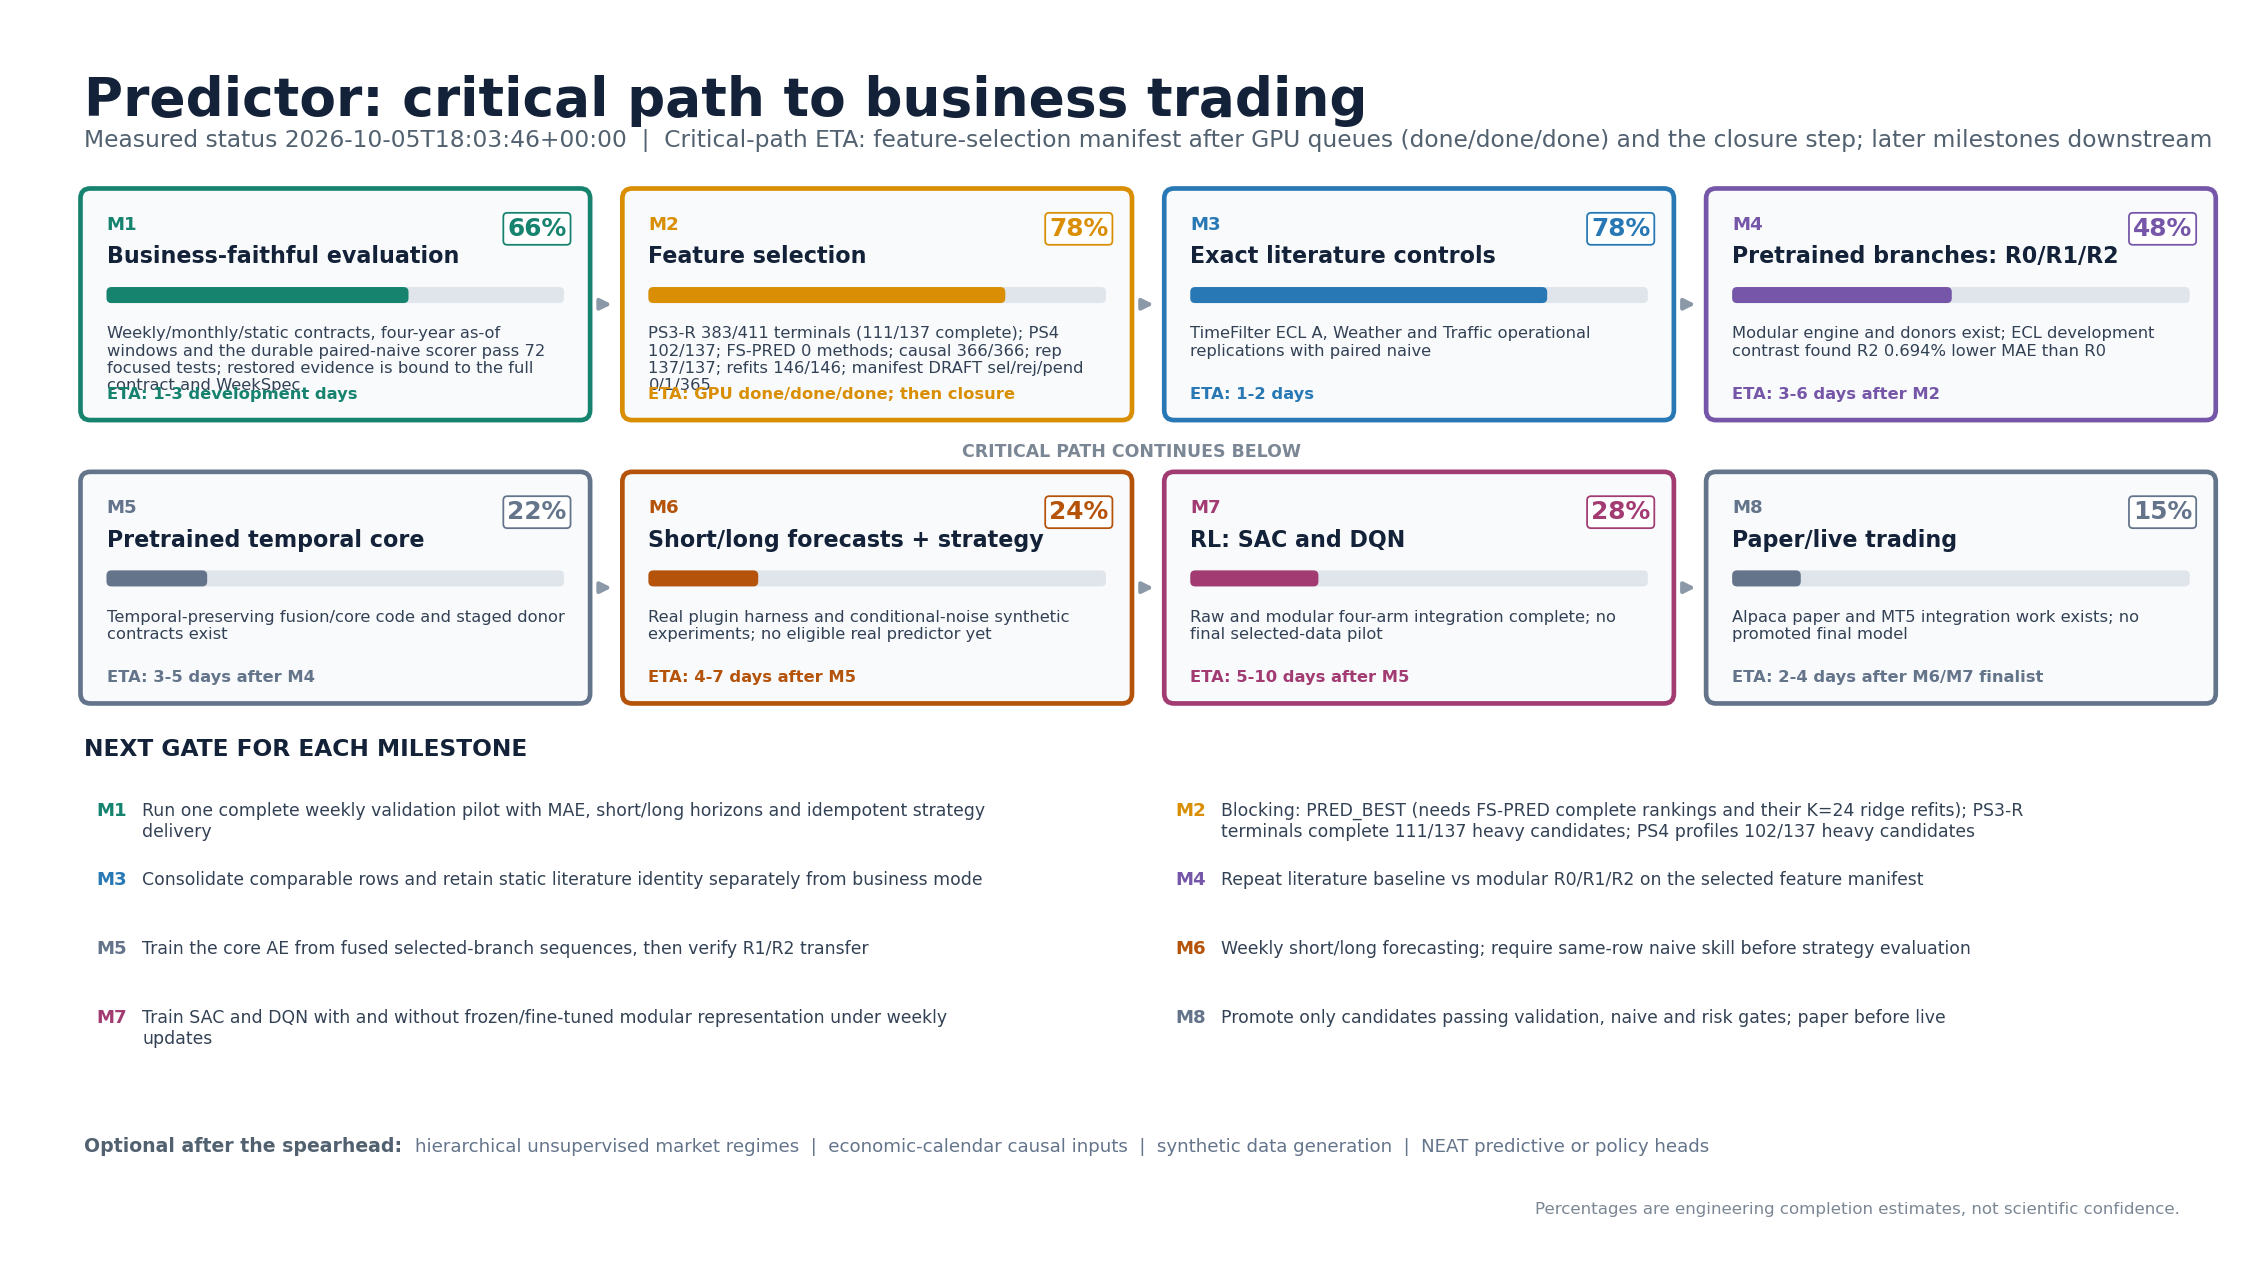
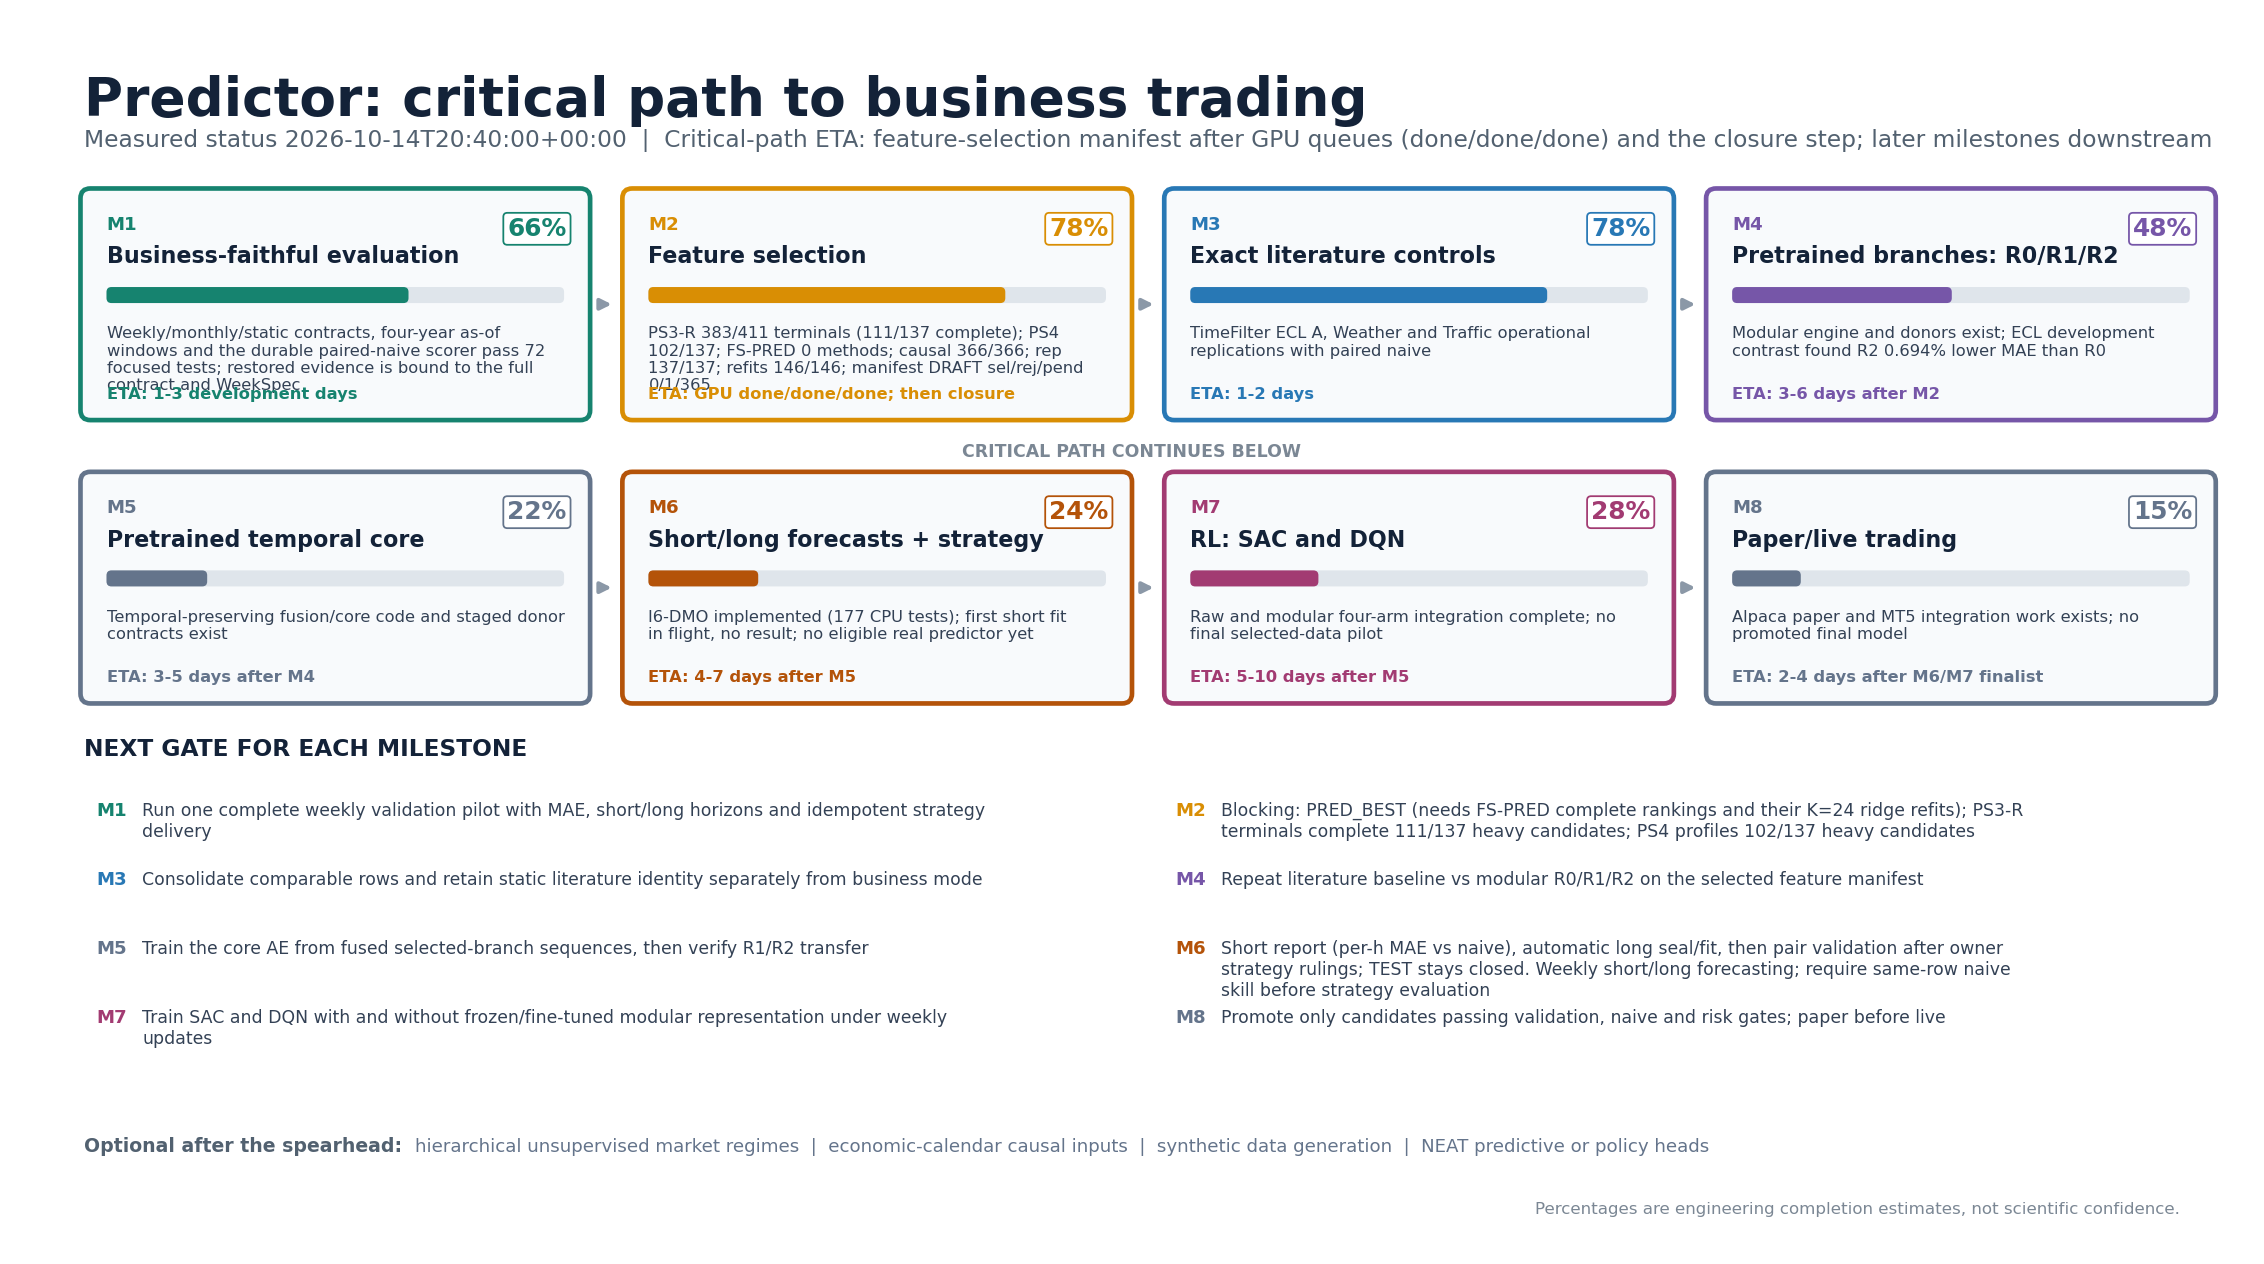
I6-DMO: order section E RETURN.md and M6 milestone engineering update

Changed region(s): [[0.5256, 0.7405, 0.8966, 0.8022], [0.2783, 0.4628, 0.4638, 0.5245], [0.1546, 0.0926, 0.2473, 0.1234]]

diff --git a/docs/i6n/direct_multi_output_static/RETURN.md b/docs/i6n/direct_multi_output_static/RETURN.md
@@ -1,0 +1,141 @@
+# I6-DMO return: short static direct multi-output (order section E)
+
+Date: 2026-10-14. The short family is implemented and deployed, and its first full fit is running.
+There are no scientific results yet. TEST is closed. This document reports code and deployment, not
+an experiment result.
+
+## 1. Commits and identities
+
+| Repository / lane | Commit |
+|---|---|
+| predictor, deployed code | `93078a0f` on `satoshi/i6dmo-static-20261014` (the branch tip also carries this document and the milestone update) |
+| predictor, model lane | `0d60f685` |
+| predictor, data lane | `0d0a3349` |
+| predictor, strategy lane | `457624e0` |
+| predictor, ops lane | `98711afe`, plus integration fixes up to `ab1d492a` (exit-code fix) and `93078a0f` (preflight routing) |
+| heuristic-strategy (pair policy pin) | `d40fd3b0` |
+| planning commit | `2a440265` |
+
+| Identity | Value |
+|---|---|
[8 lines of base64/hex data omitted]
+
+`init` refuses the superseded exact-slot bundle `5221615d`. The private spec, the pins and the
+bootstrap live outside Git.
+
+## 2. DMO01-DMO20 traceability
+
+Every lane wrote its tests first and recorded the failing PRE run. The POST results below are CPU
+tests. On the integration tree, the full suite of 177 tests passed in 5 bounded jobs. No GPU
+scientific run backs any row yet. The required independent reviewer's replay was **not run**, and
+`TRACEABILITY.json` is not written; the lane return files hold the per-test detail.
+
+| DMO | Owner | Result | Negative control included |
+|---|---|---|---|
+| DMO01 six heads, one backbone | model | PASS | future input does not move earlier core steps |
+| DMO02 13 exact as-of slots incl. t | data | PASS | perturbing t+1 and later changes no input |
+| DMO03 exact h3/h5, no thinning | data | PASS | a missing endpoint is not bridged by the next row |
+| DMO04 masked loss | model | PASS | NaN cannot enter the loss |
+| DMO05 C1 masks, DST, splits | data | PASS | cross-boundary labels are purged |
+| DMO06 outer/future perturbation | data | PASS | positive control included |
+| DMO07 one fit per family | ops | PASS | a report entry equal to the fit entry is refused |
+| DMO08 MAE and naive on identical rows | data + ops | PASS | tampered target; shuffled rows and reordered heads are typed failures |
+| DMO09 pooled sums and counts | data + ops | PASS | unequal weeks differ from the mean of weekly MAEs; an absent week is explicit |
+| DMO10 fit/inner stopping, save/load | model | PASS | a tampered archive is refused |
+| DMO11 identity adoption | ops | PASS | changed code, data or config cannot adopt; a tampered prior terminal is rejected |
+| DMO12 outbox exactly-once and readback | ops | PASS | a readback mismatch never closes delivery |
+| DMO13 TEST closed | ops (+ data) | PASS | an open-TEST design and a tampered seal are refused; TEST rows are refused |
+| DMO14 masks and chronological SL/TP | strategy | PASS | reversed hit order; a missing head is never filled |
+| DMO15 forced flat with a real fill | strategy | PASS | the end of data invents no fill |
+| DMO16 four years, every origin | data | PASS | incomplete coverage is refused, not shortened |
+| DMO17 one heavy lease per host | ops | PASS | the 5070 Ti is blocked; foreign GPU processes are refused |
+| DMO18 TRAIN-only scales, 19 features | model + data | PASS | STLFSI4 aliases are rejected |
+| DMO19 progress, measured ETA or UNMEASURED | ops | PASS | stale and failed units are never COMPLETE |
+| DMO20 cadence identities, no TEST feedback | ops | PASS | a gate built from TEST reads is refused |
+
+## 3. What is installed and running
+
+All units are user units on the coordinator, which supervises the children on their hosts.
+
+- **Coordinator.** It runs the tick timer and three role worker timers, all enabled. The report and
+  pair units run on this machine's CPU under the memory launcher. **Publish units are NOT
+  installed** (see section 5).
+- **Secondary GPU (4090).** `short.fit` is running here at the default 7936 MiB cap, with a live
+  claimed child and a fresh heartbeat. At the single verification it was at epoch 13 of a
+  200-epoch ceiling.
+- **Preferred GPU (5090).** Admission was refused with `HOST_MEMORY_BELOW_GATE`: about 10.3 GiB is
+  available, which is below the 7.75 GiB cap plus the host's 3 GiB reserve. The margin was not
+  trimmed. The host joins later fits once a measured peak gives a cap of 1.25x that peak and the
+  cap fits.
+- **5070 Ti.** It is never used, because it is not a parallel slot.
+
+**Retired first root.** The launcher refused admission with rc 75 and started nothing. Because
+systemd had already collected the transient unit, the worker read the result as rc 0 and typed the
+unit TERMINAL_INVALID. The fix is in `ab1d492a`: the child writes its own `EXIT_CODE`. The first
+root is kept with a `RETIRED` reason, its units were removed, and no fit ran in it.
+
+**Installed modules.** The GPU hosts use the existing isolated `tensorflow` environment: Python
+3.12.13, tensorflow 2.21.0, keras 3.13.2, numpy 2.4.3. The coordinator uses Python 3.12.7 with
+numpy 1.26.4 and sqlalchemy 2.0.34. Bundles, input and code were replicated to both GPU hosts, and
+all 20 files matched their sha256 on each host.
+
+## 4. Status, denominators, ETA
+
+`python -m tools.i6dmo status --root "$I6DMO_ROOT" --level campaign --json` (the `unit`, `stage`,
+`publication` and `fleet` levels are also available).
+
+- **Expected validation units: 5.** These are `short.fit`, `short.report`, `long.fit`,
+  `long.report` and `pair.validation`.
+- **Final units:** not enumerated until TEST readiness. There will be two refits on
+  `[2021-01-01, 2025-01-01)` and one TEST pair unit.
+- **ETA: UNMEASURED.** No fit has completed yet. The in-flight epoch rate is reported only as an
+  upper bound at the 200-epoch ceiling.
+
+## 5. OLAP and mirrors
+
+- **Publication is not deployed.** The warehouse URL and EnvironmentFile are unresolved: two
+  attempts to locate them were denied as Credential Exploration and were not retried. Owner: Satoshi
+  fills `warehouse.url` and `warehouse.environment_file` in the private spec and redeploys.
+- **Facts are held in the outbox.** Every fact goes into the durable outbox
+  (`state/outbox.sqlite3`), keyed by report_sha256, and stays there until publication runs. No
+  OLAP run id or readback exists yet.
+- **Mirrors.** The local and second-host mirrors are configured. They are synced and verified by the
+  publish pass, so they have no `MIRRORS.json` yet.
+
+## 6. Result index and M1-M8
+
+- **Numeric results: none.** The first fit is in flight.
+- **Milestones.** `docs/audits/evidence/canonical_20261003/MASTER_MILESTONE_STATUS.json` M6 now
+  records the I6-DMO engineering state. **No percentage was changed.** `MASTER_MILESTONE_PROGRESS.png`
+  was regenerated with `render_master_milestones.py`.
+
+## 7. Limitations
+
+- **Feature set.** The 19-feature set was selected using 2024, so VALIDATION is development data,
+  not an untouched holdout.
+- **Source clocks.** Two FRED features (DGS3MO, DGS7) have recovered producers, but their
+  publication clocks are UNVERIFIED (ALFRED vintages are missing). This blocks a confirmatory TEST.
+  The DST-gap clock disagreement is retained as stale, not leaked.
+- **Calendar.** The calendar is ASSUMED, not a verified broker calendar.
+- **Long family.** The long design is sealed automatically after short closure. `long.fit` checks
+  the data contract `6e354fe6` before it uses the long bundle.
+- **Strategy rulings pending (owner):**
+  - barrier equality;
+  - costs and pip value (the legacy `pip_cost` 0.00001 gives about 0.2/0.1 real pips of spread and
+    slippage and needs ratification);
+  - fill model;
+  - Sharpe convention;
+  - minimum long heads.
+
+  The pair unit waits in WAIT_OWNER_RULING and also waits for the strategy pins.
+- **TEST is closed.** No TEST array has been materialized.
+- **Old POO-v2 fits.** The partial POO-v2 fits are kept as interrupted, not as scientific
+  terminals. Their services are disabled and in a failed state. The archive timers and warehouse
+  tunnels were deliberately left running.
